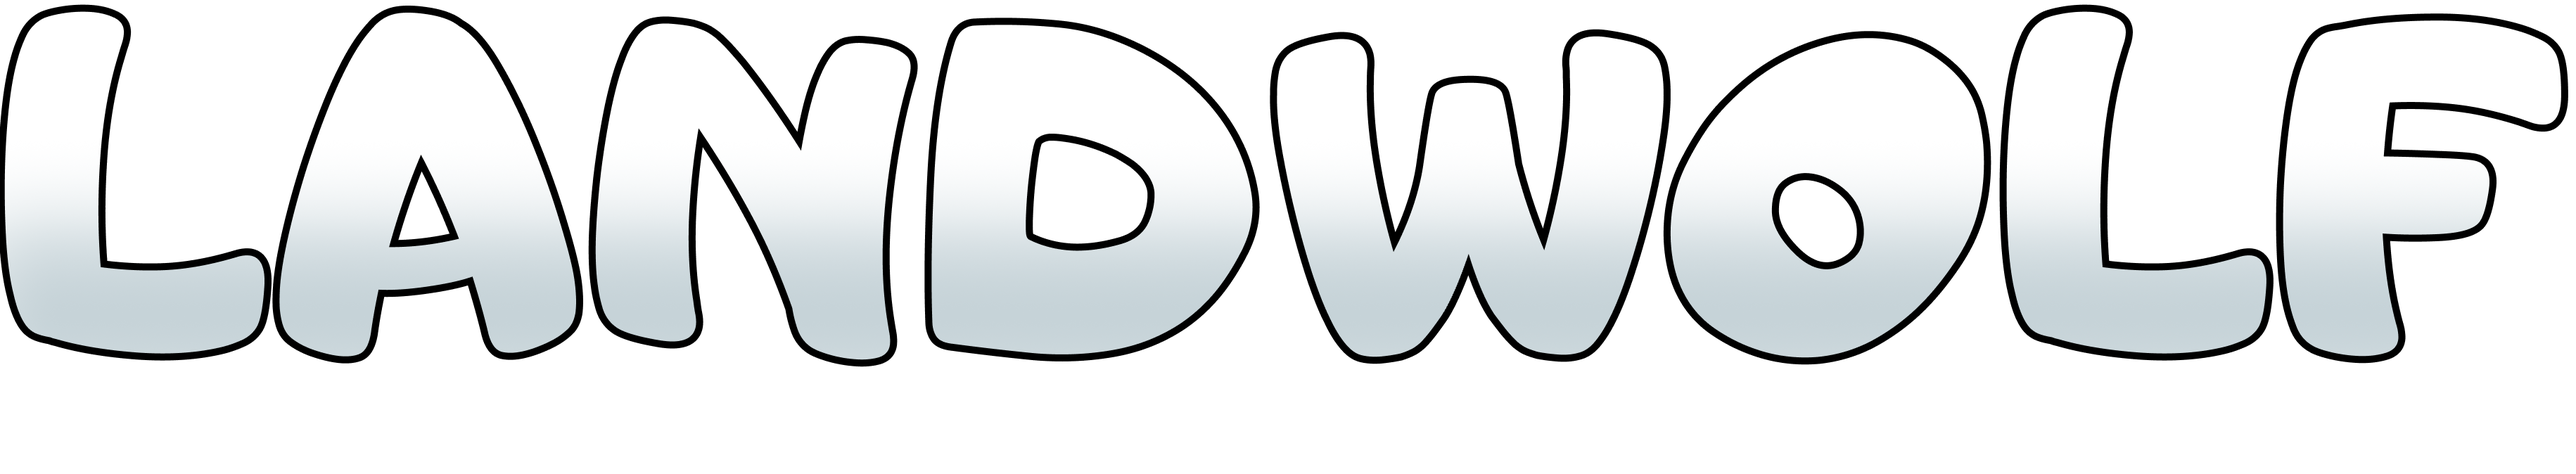
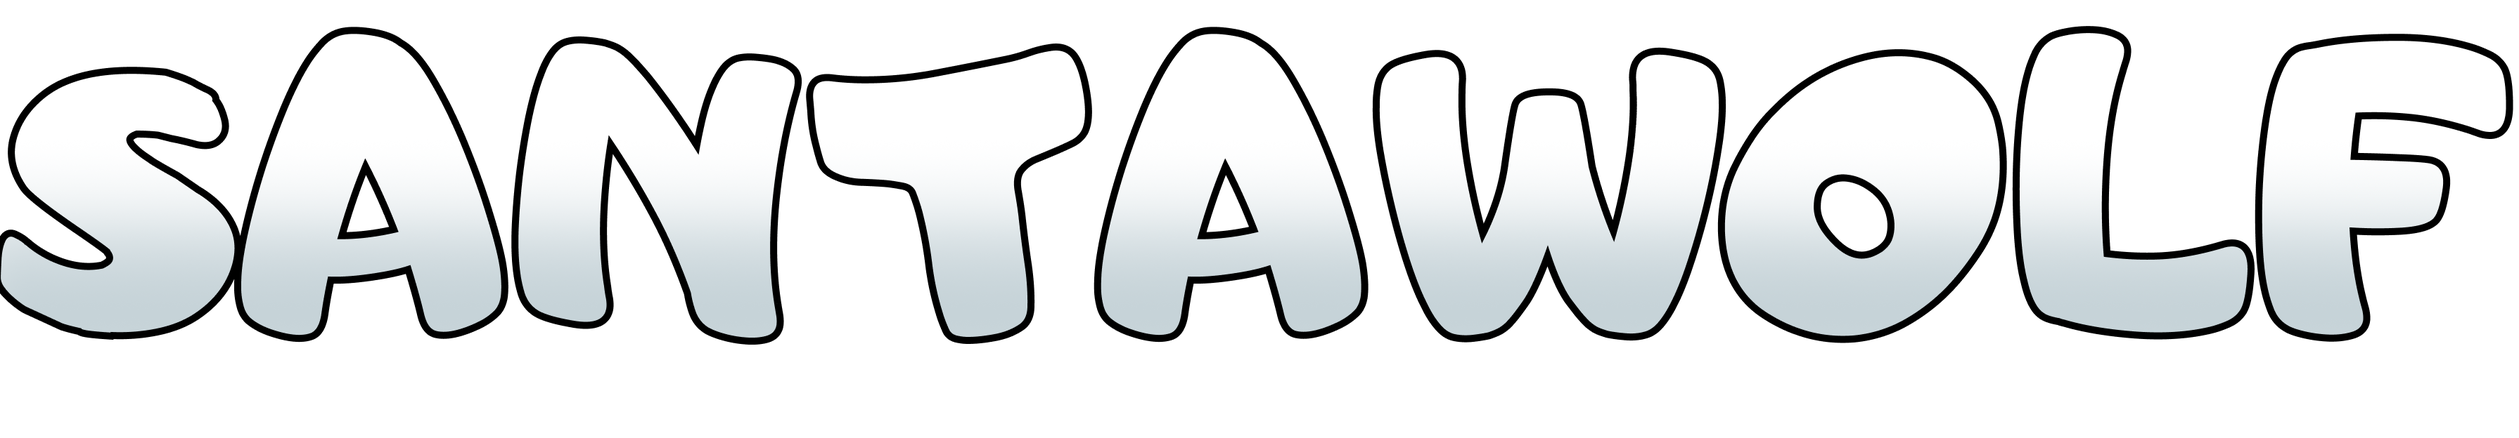
Update

Changed region(s): [[0.0, 0.0, 1.0, 0.7917]]

diff --git a/src/component/Joinus.js b/src/component/Joinus.js
@@ -34,8 +34,8 @@ function Joinus() {
 
                 <p className='lg:text-xl text-sm text-center lg:w-7/12'>Disclaimer: 🎄🐺
                     <br />
-                    LandWolf on Pump.fun is a cryptocurrency project with exciting potential, but remember—crypto investing comes with risks! Prices can be as unpredictable as holiday weather. Please do your research and invest responsibly. Let’s keep the Christmas spirit bright and your wallet safe this season. This is not financial advice—just a friendly nudge to stay merry and mindful! 🎅✨</p>
-                <p className='lg:text-xl text-sm text-center '>2024 $LANDWOLF ALL RIGHTS RESERVED</p>
+                    SantaWolf on Pump.fun is a cryptocurrency project with exciting potential, but remember—crypto investing comes with risks! Prices can be as unpredictable as holiday weather. Please do your research and invest responsibly. Let’s keep the Christmas spirit bright and your wallet safe this season. This is not financial advice—just a friendly nudge to stay merry and mindful! 🎅✨</p>
+                <p className='lg:text-xl text-sm text-center '>2024 $SANTAWOLF ALL RIGHTS RESERVED</p>
             </div>
         </div>
     )

diff --git a/src/component/About.js b/src/component/About.js
@@ -15,7 +15,7 @@ function About() {
                 <div className="rightdiv lg:w-1/2 w-full flex flex-col items-center justify-center lg:p-20 py-5  lg:gap-7 gap-4 z-20">
                     <h1 className='text-[#F7FFFF] lg:text-8xl text-5xl  text-center  '>ABOUT</h1>
 
-                    <p className='text-[#F7FFFF] lg:text-2xl text-base   text-center  '>LandWolf emerges as a fresh start, inspired by the story of Solana Wolf. The previous project, tarnished by influencers like Rex, who scammed the community and profited at the expense of others, left many feeling betrayed, with some even losing their savings. LandWolf is here to change that narrative.</p>
+                    <p className='text-[#F7FFFF] lg:text-2xl text-base   text-center  '>Santawolf emerges as a fresh start, inspired by the story of Solana Wolf. The previous project, tarnished by influencers like Rex, who scammed the community and profited at the expense of others, left many feeling betrayed, with some even losing their savings. SantaWolf is here to change that narrative.</p>
 
 
                     <img src={buybtnn} alt="buybtnn" className='w-96 [500px]  ' />
